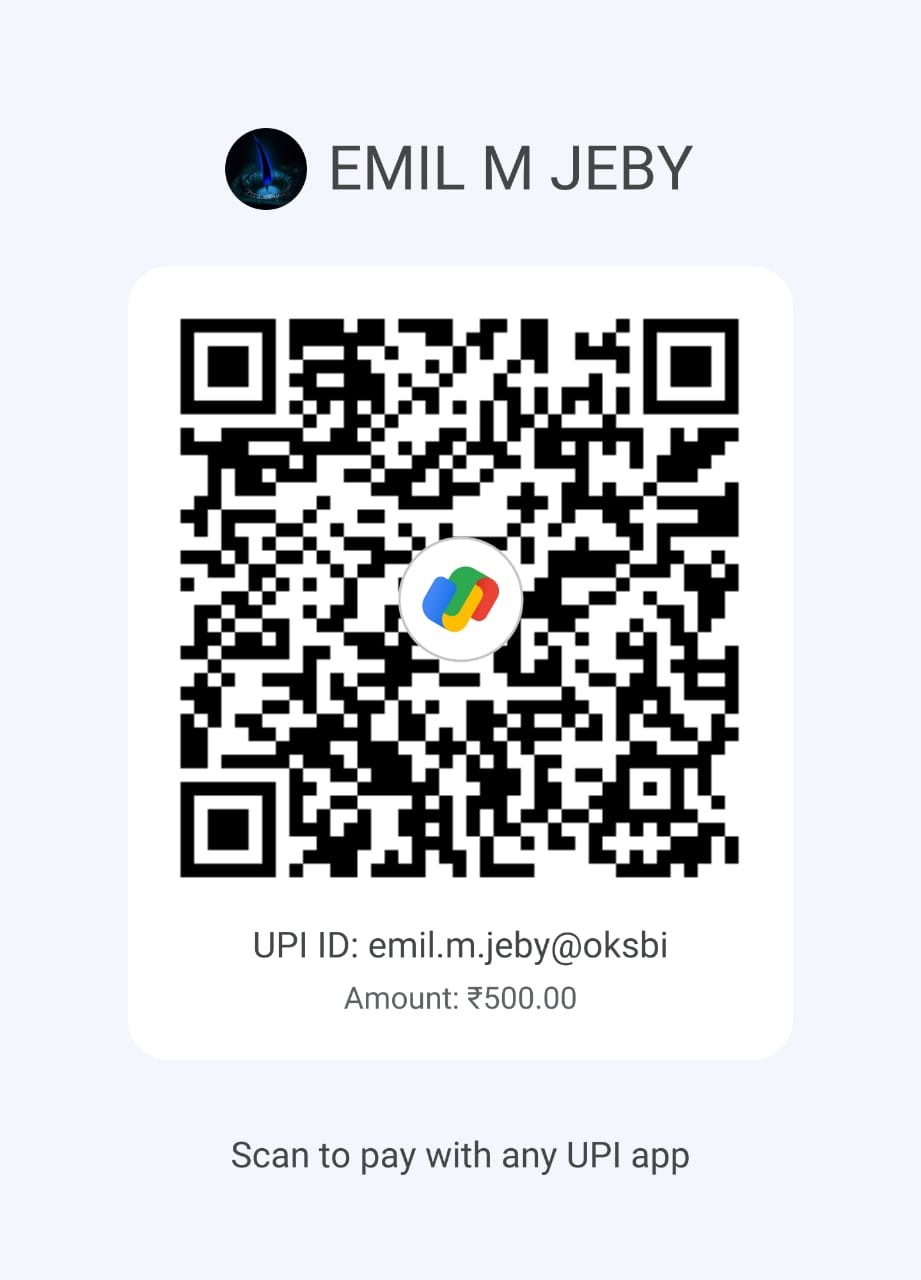
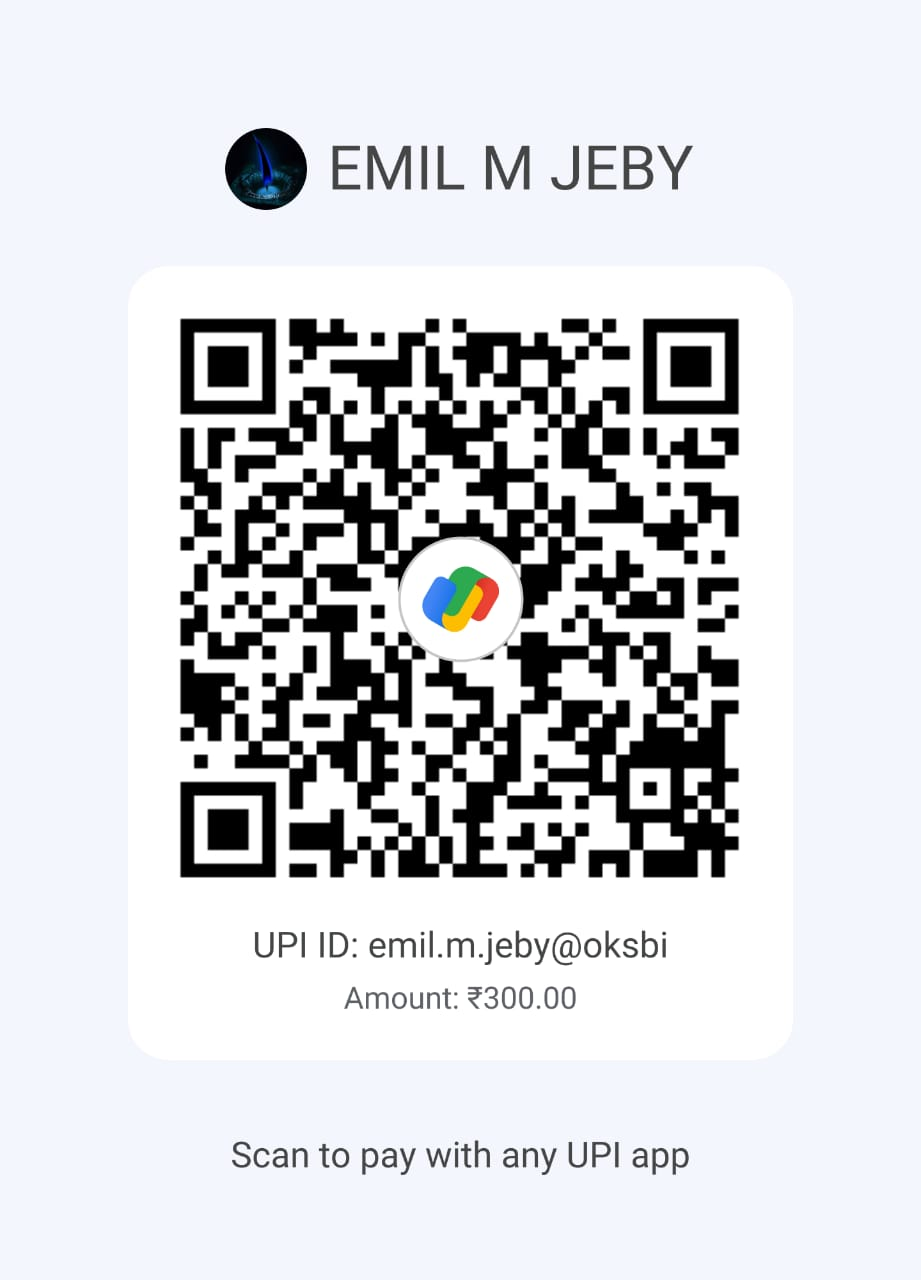
updates

Changed region(s): [[0.1824, 0.25, 0.8208, 0.6875], [0.5168, 0.75, 0.5472, 0.7812]]

diff --git a/EditAThon.html b/EditAThon.html
@@ -148,10 +148,11 @@
                                     3. Video Specifications:<br>
                                     Length: The video must be between [1-1.5 minutes ].<br>
                                     Format: The final submission must be in  MP4 format.<br></br>
-                                    Resolution: Minimum video resolution should be 720p or 1080p.<br><br>
+                                    Resolution: Minimum video resolution should be 720p or 1080p.<br>
+                                    Recording: Videos must be recorded using mobile devices only.<br><br>
                                     4. Editing:<br>
                                     All video editing must be done by the team members. Use of pre-made templates or third-party assistance is not allowed.<br>
-                                    Teams are free to use any video editing software of their choice.<br>
+                                    All video editing must be done by team members using VN Video Editor.<br>
                                     Special effects, transitions, and creative edits are encouraged but should not overshadow the storytelling.<br><br>
                                     5. Time Limit:<br>
                                     Teams will have 3 hours to complete and submit their video after the theme is announced.<br>
@@ -186,9 +187,14 @@
                     <div class="blog_right_sidebar">
                         <aside class="single_sidebar_widget post_category_widget">
                             <h4 class="widget_title">Edit a Thon Coordinators</h4>
-                            <h5 class="widget_title">Livya : </h5>
+                            <h5 class="widget_title">Livya</h5>
                             <h6 class="widget_title">
                                 <a href="tel:+919526851545"><i class="fas fa-phone"></i> +91 9526851545</a>
+                            </h6>
+                            
+                            <h5 class="widget_title">Enosh Joseph P A</h5>
+                            <h6 class="widget_title">
+                                <a href="tel:+919446217541"><i class="fas fa-phone"></i> +91 9446217541</a>
                             </h6>
                         </aside>
                     </div>

diff --git a/index.html b/index.html
@@ -207,7 +207,7 @@
                         <div class="col-lg-6 col-md-6">
                             <div  class="single_performer wow fadeInUp" data-wow-duration="1s" data-wow-delay=".5s">
                                 <div data-tilt class="thumb">
-                                    <a href="Promptify.html"><img src="img/promptify.jpg" alt=""></a>
+                                    <a href="Promptify.html"><img src="img\Prompt Designing.png" alt=""></a>
                                 </div>
                                 <div class="performer_heading">
                                     <h4>Promptify</h4>
@@ -330,9 +330,9 @@
                                     <h4 class=" wow fadeInUp" data-wow-duration="1s" data-wow-delay=".4s">MCA Lab 1</h4>
                                 </div>
                                 <div class="thumb  wow fadeInUp" data-wow-duration="1s" data-wow-delay=".5s">
-                                    <img src="img\hacknslash.jpg" alt="">
+                                    <img src="img\codomizer.jpg" alt="">
                                 </div>
-                                <h4 class=" wow fadeInUp" data-wow-duration="1s" data-wow-delay=".6s">Hack & Slash</h4>
+                                <h4 class=" wow fadeInUp" data-wow-duration="1s" data-wow-delay=".6s">Codomizer</h4>
                             </div>
                         </div>
                         <div class="single_propram">
@@ -389,9 +389,9 @@
                                     <h4 class=" wow fadeInUp" data-wow-duration="1s" data-wow-delay=".4s">MCA Lab 2</h4>
                                 </div>
                                 <div class="thumb wow fadeInRight" data-wow-duration="1s" data-wow-delay=".5s">
-                                    <img src="img\codomizer.jpg" alt="">
+                                    <img src="img\hacknslash.jpg" alt="">
                                 </div>
-                                <h4 class="wow fadeInRight" data-wow-duration="1s" data-wow-delay=".6s">Codomizer</h4>
+                                <h4 class="wow fadeInRight" data-wow-duration="1s" data-wow-delay=".6s">Hack & Slash</h4>
                             </div>
                         </div>
 

diff --git a/future_frames.html b/future_frames.html
@@ -185,13 +185,13 @@
                     <div class="blog_right_sidebar">
                         <aside class="single_sidebar_widget post_category_widget">
                             <h4 class="widget_title">Future Frames Coordinators</h4>
-                            <h5 class="widget_title">Ajith Mani Santhosh</h5>
+                            <h5 class="widget_title">KEERTHY V B</h5>
                             <h6 class="widget_title">
-                                <a href="tel:+919400800586"><i class="fas fa-phone"></i> +91 9400800586</a>
+                                <a href="tel:+919744273289"><i class="fas fa-phone"></i> +91 9744273289</a>
                             </h6>
-                            <h5 class="widget_title">Ashna Nourin M A</h5>
+                            <h5 class="widget_title">Grifith Raj</h5>
                             <h6 class="widget_title">
-                                <a href="tel:+919074270336"><i class="fas fa-phone"></i> +91 9074270336</a>                                </a>
+                                <a href="tel:+919383421261"><i class="fas fa-phone"></i> +91 9383421261</a>                                </a>
                             </h6>
                         </aside>
                     </div>

diff --git a/contact.html b/contact.html
@@ -131,6 +131,9 @@
                                         <h3>Website Admins</h3>
                                         <h4>Akhil Rock Babu  : <a href="tel:+918111896096"><i class="fas fa-phone"></i> +91 8111896096</a></h4>
                                         <h4>Ajaidev S  : <a href="tel:+918138892815"><i class="fas fa-phone"></i> +91 8138892815</a></h4>
+                                        <h4>Anurag Mohan  : <a href="tel:+917994839759"><i class="fas fa-phone"></i> +91 7994839759</a></h4>
+                                        <h4>Dona Jince  : <a href="tel:+917736965509"><i class="fas fa-phone"></i> +91 7736965509</a></h4>
+                                        <h4>Nikhila Baby  : <a href="tel:+919745620479"><i class="fas fa-phone"></i> +91 9745620479</a></h4>
                                     </div>
                                 </div>
                                 <div class="col-sm-6">

diff --git a/TechTrivia.html b/TechTrivia.html
@@ -179,9 +179,9 @@
                     <div class="blog_right_sidebar">
                         <aside class="single_sidebar_widget post_category_widget">
                             <h4 class="widget_title">Tech Trivia Coordinators</h4>
-                            <h5 class="widget_title">Santa Saji</h5>
+                            <h5 class="widget_title">Safar Yasin Shajahan</h5>
                             <h6 class="widget_title">
-                                <a href="tel:+919207814406"><i class="fas fa-phone"></i> +91 9207814406</a>
+                                <a href="tel:+917559876157"><i class="fas fa-phone"></i> +91 7559876157</a>
                             </h6>
                             <h5 class="widget_title">Arthana Salil</h5>
                             <h6 class="widget_title">

diff --git a/Hack&Slash.html b/Hack&Slash.html
@@ -203,7 +203,7 @@
                     <div class="blog_right_sidebar">
                         <aside class="single_sidebar_widget post_category_widget">
                             <h4 class="widget_title">Hack & Slash Coordinators</h4>
-                            <h5 class="widget_title">Renjish MA</h5>
+                            <h5 class="widget_title">Renjish KS</h5>
                             <h6 class="widget_title">
                                 <a href="tel:+919567225114"><i class="fas fa-phone"></i> +91 9567225114</a>
                             </h6>

diff --git a/Codomizer.html b/Codomizer.html
@@ -204,7 +204,7 @@
                     <div class="blog_right_sidebar">
                         <aside class="single_sidebar_widget post_category_widget">
                             <h4 class="widget_title">Codomizer Coordinators</h4>
-                            <h5 class="widget_title">Renjish MA</h5>
+                            <h5 class="widget_title">Renjish KS</h5>
                             <h6 class="widget_title">
                                 <a href="tel:+919567225114"><i class="fas fa-phone"></i> +91 9567225114</a>
                             </h6>

diff --git a/registration/valorant_vortex.php b/registration/valorant_vortex.php
@@ -145,7 +145,7 @@ if($current_reg<$limit)
                             </div>
                         </div>
                         <div class="form-row">
-                            <div class="name">To Pay: <br><h2>Rs 500/-</h2></div>
+                            <div class="name">To Pay: <br><h2>Rs 300/-</h2></div>
                             <div class="value">
                                 <div class="input-group">
                                     <img src="images\VALORANT VORTEX_qrcode.jpg" width=300px height=400px><br>
